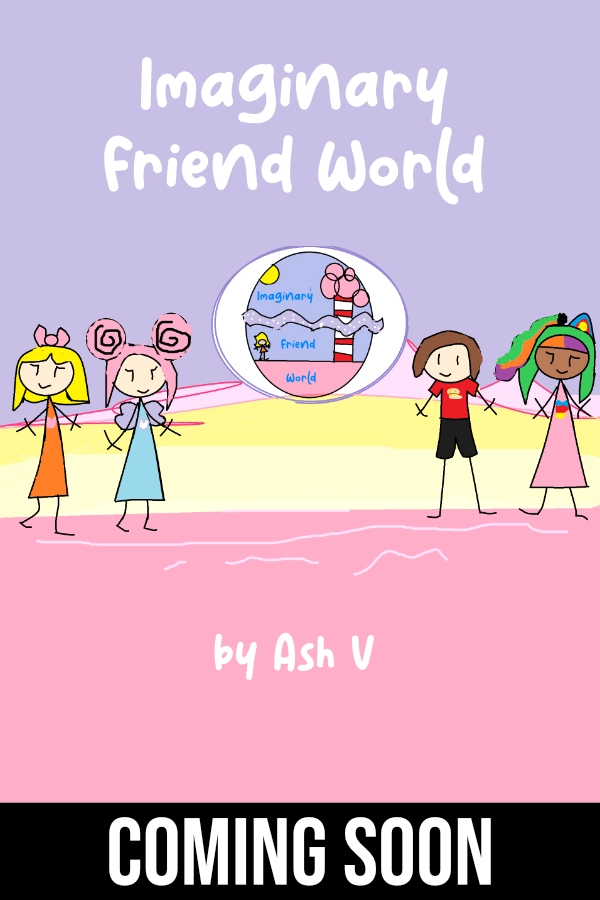
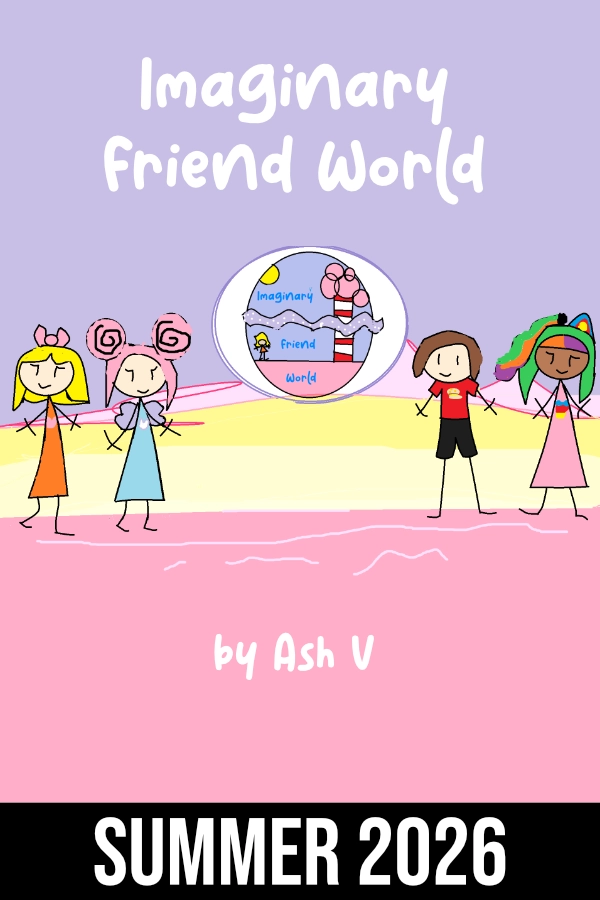
Little Update

Changed region(s): [[0.15, 0.9022, 0.84, 0.9956]]

diff --git a/index.html b/index.html
@@ -141,13 +141,13 @@
         </div>
         <div class="row">
             <div class="col-sm mb-3">
+                <img src="./images/Index/ImaginaryFriendWorld_Draft.webp" alt="Imaginary Friend World" width="100%">
+            </div>
+            <div class="col-sm mb-3">
                 <img src="./images/Index/VroomVerse_Draft.webp" alt="VroomVerse" width="100%">
             </div>
             <div class="col-sm mb-3">
                 <img src="./images/Index/ShippRunners_Draft.webp" alt="Ship Runners" width="100%">
-            </div>
-            <div class="col-sm mb-3">
-                <img src="./images/Index/ImaginaryFriendWorld_Draft.webp" alt="Imaginary Friend World" width="100%">
             </div>
             <div class="col-sm mb-3">
                 <!-- <img src="./images/Index/ShippRunners_Draft.webp" alt="Ship Runners" width="100%"> -->
@@ -194,7 +194,7 @@
                     <tbody>
                         <tr>
                             <th scope="row">3 JUN 26 @ 10am Central</th>
-                            <td>Planet Ultra Chp. 17</td>
+                            <td>Planet Ultra Ch. 17</td>
                             <td><a href="https://globalcomix.com/c/planet-ultra" target="_blank">GlobalComix</a></td>
                         </tr>
                         <tr>
@@ -204,7 +204,7 @@
                         </tr>
                         <tr>
                             <th scope="row">10 JUN 26 @ 10am Central</th>
-                            <td>Planet Ultra Chp. 18</td>
+                            <td>Planet Ultra Ch. 18</td>
                             <td><a href="https://globalcomix.com/c/planet-ultra" target="_blank">GlobalComix</a></td>
                         </tr>
                         <tr>
@@ -214,12 +214,12 @@
                         </tr>
                         <tr>
                             <th scope="row">17 JUN 26 @ 10am Central</th>
-                            <td>Planet Ultra Chp. 19</td>
+                            <td>Planet Ultra Ch. 19</td>
                             <td><a href="https://globalcomix.com/c/planet-ultra" target="_blank">GlobalComix</a></td>
                         </tr>
                         <tr>
                             <th scope="row">24 JUN 26 @ 10am Central</th>
-                            <td>Planet Ultra Chp. 20</td>
+                            <td>Planet Ultra Ch. 20</td>
                             <td><a href="https://globalcomix.com/c/planet-ultra" target="_blank">GlobalComix</a></td>
                         </tr>
                     </tbody>